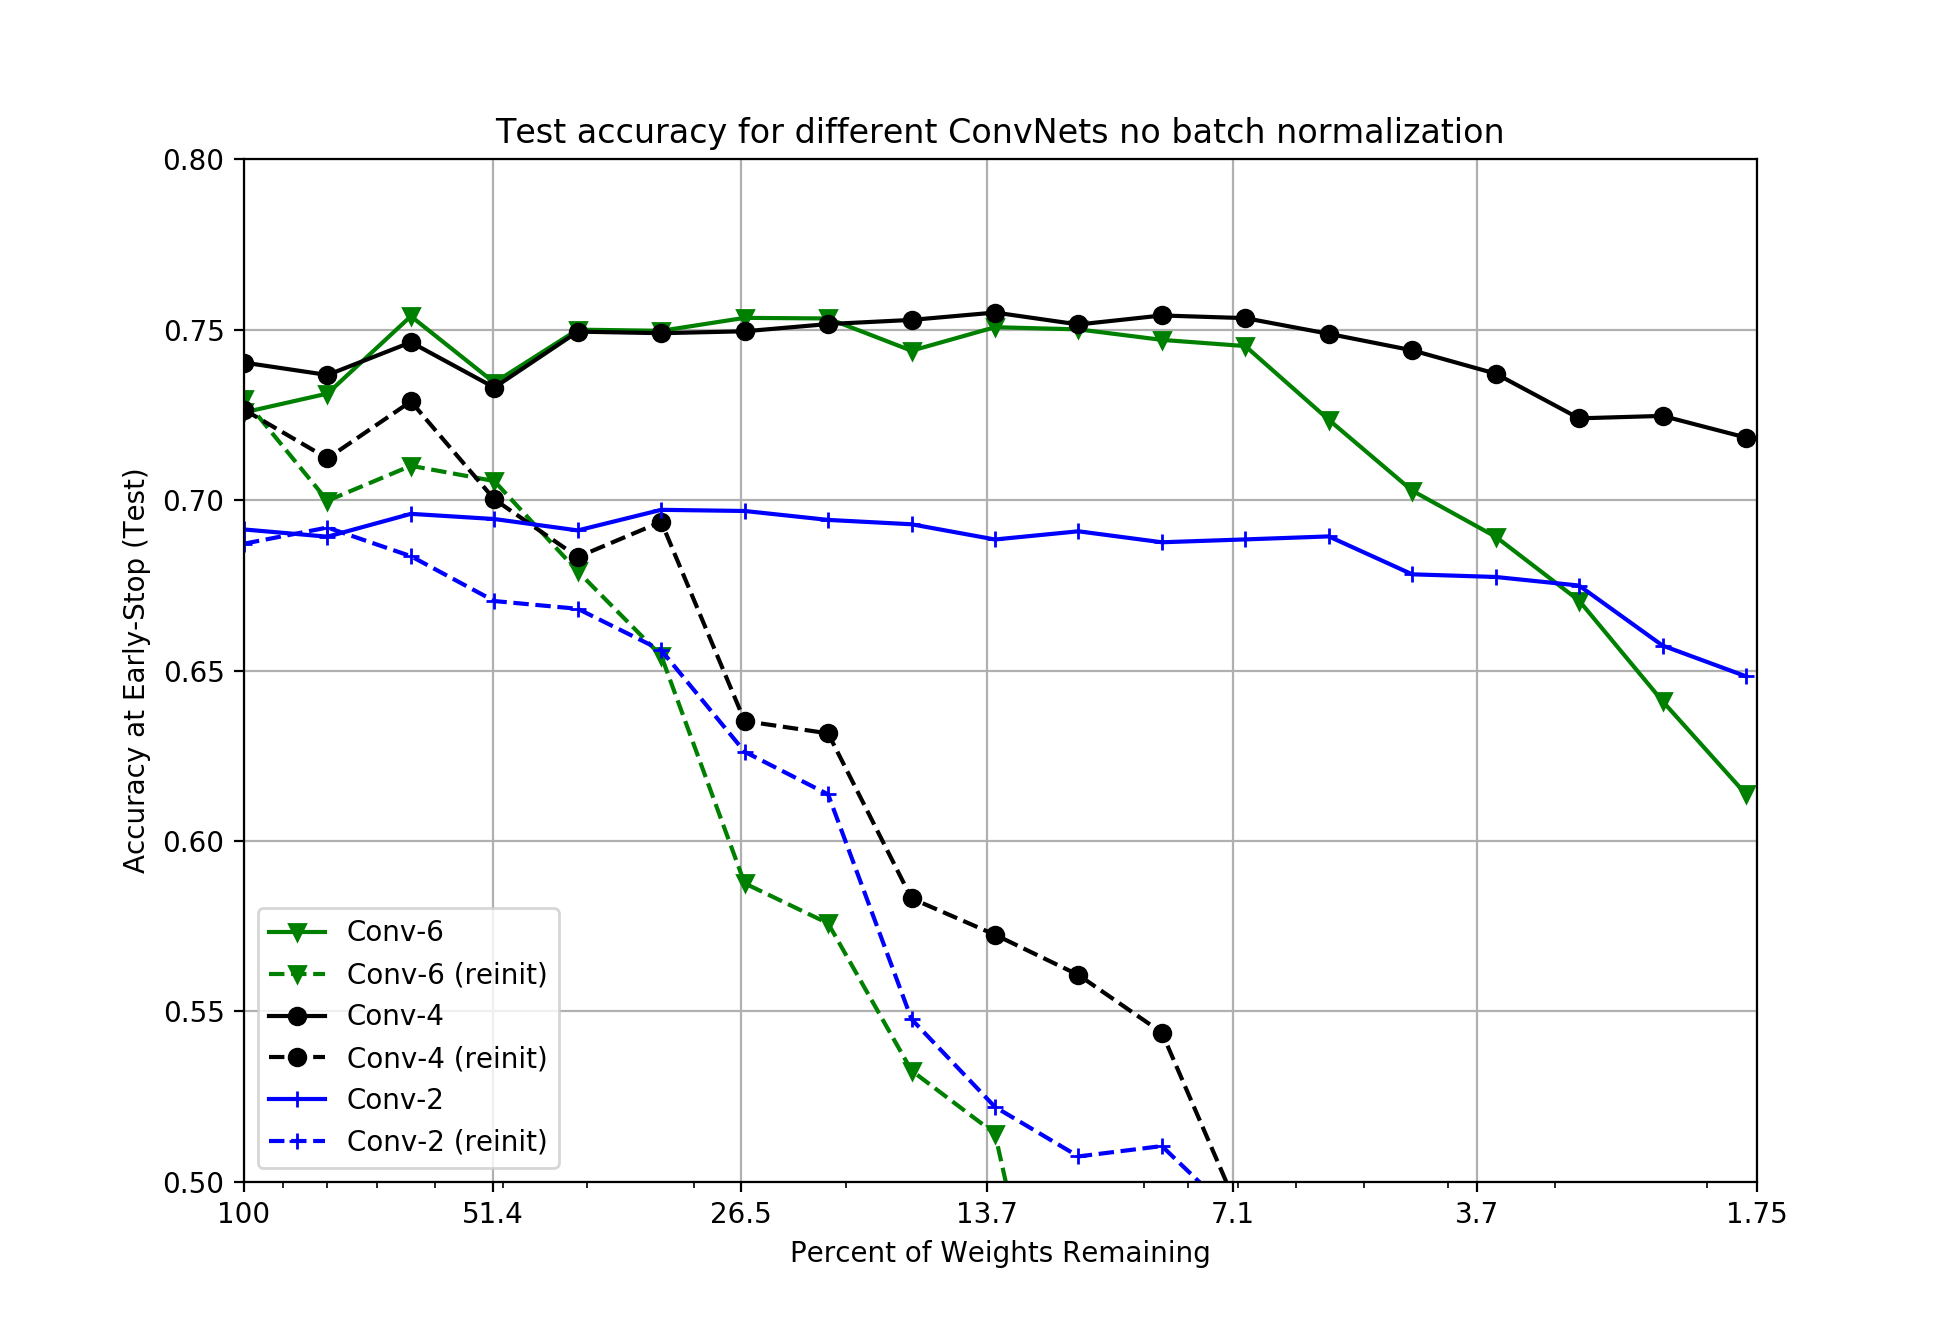
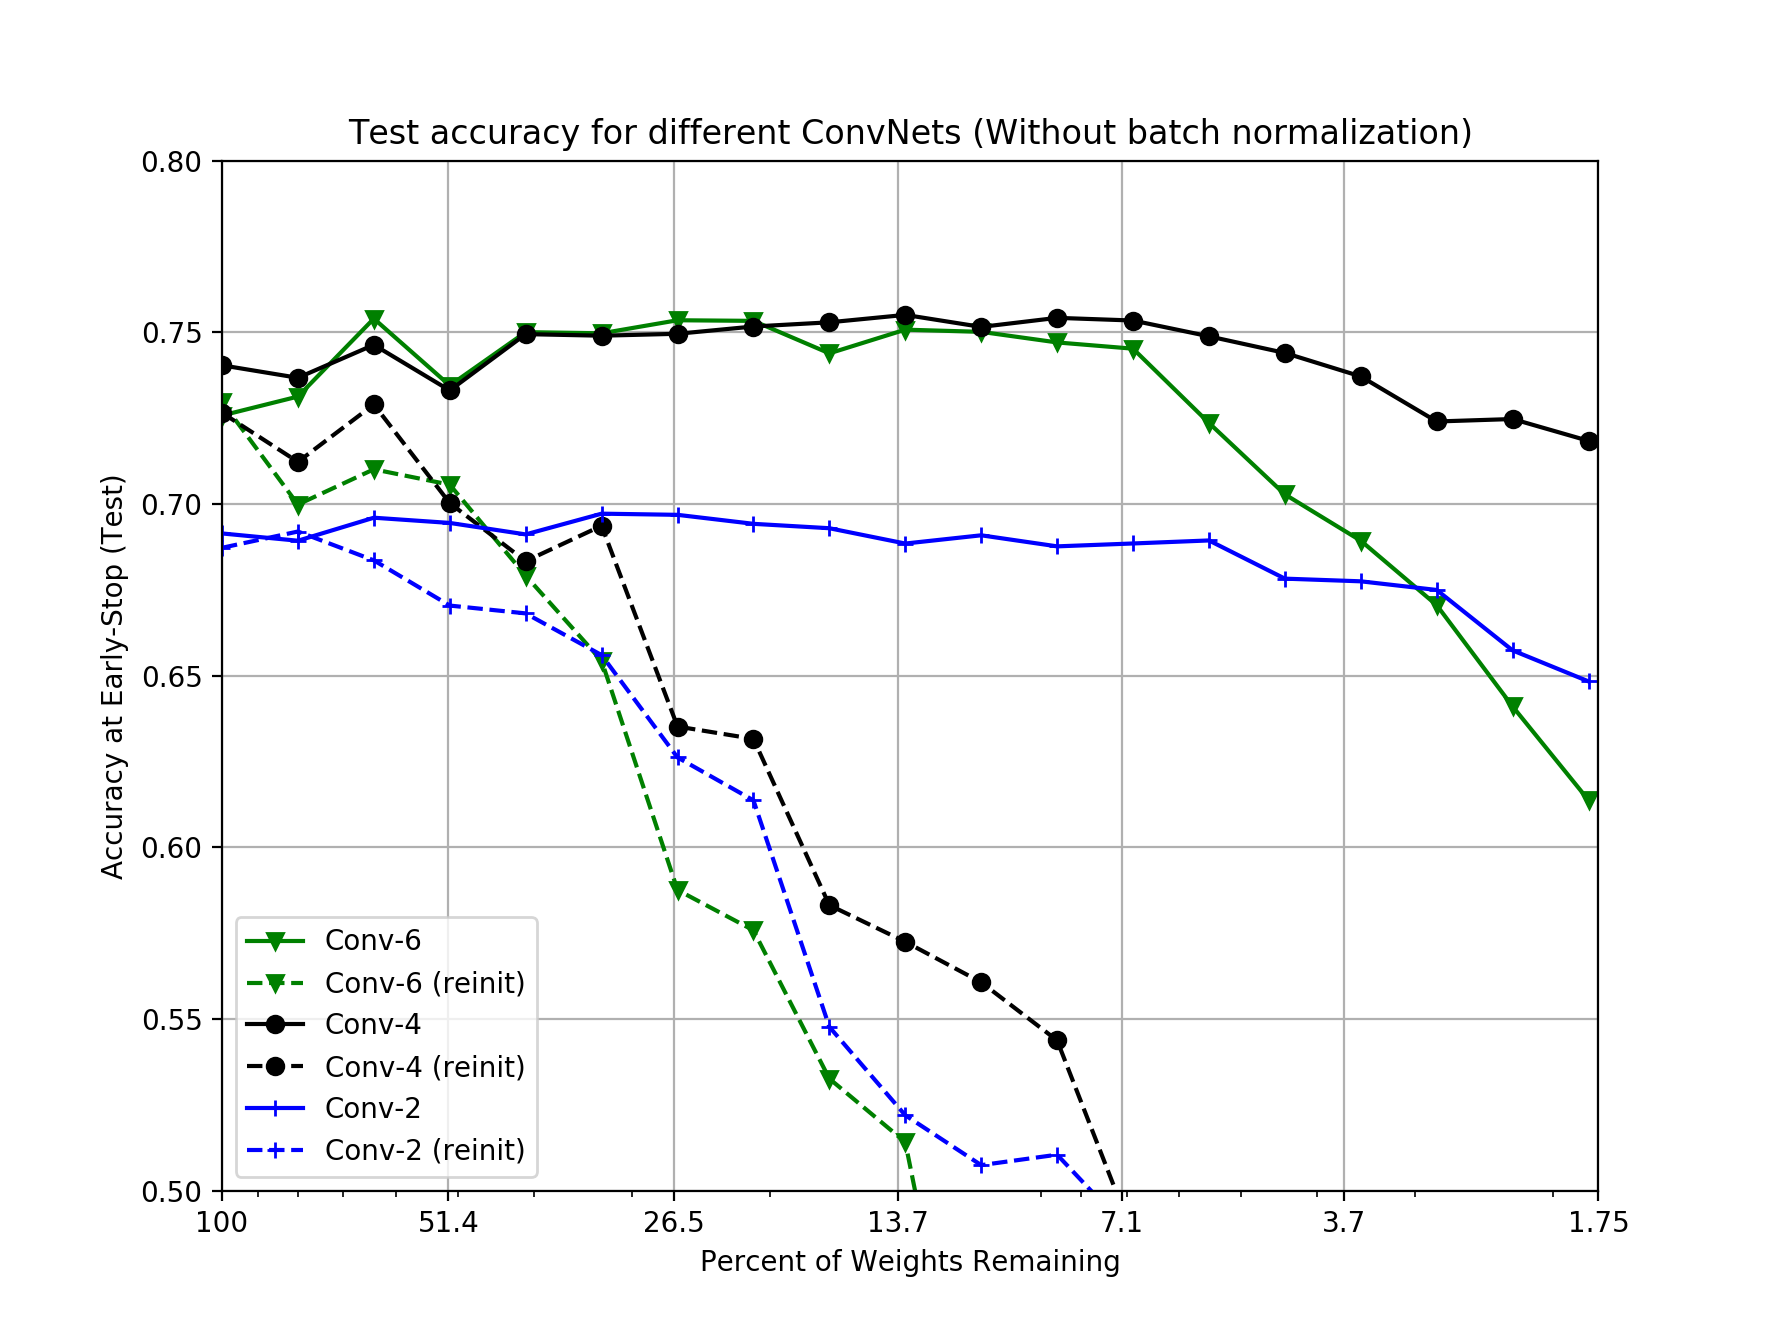
updated figures and plots.py

diff --git a/src/conv_cifar/plots.py b/src/conv_cifar/plots.py
@@ -51,7 +51,7 @@ def plot_no_batch_norm():
     plt.plot(percentages_list_conv24, conv2_hist_reinit, label="Conv-2 (reinit)", marker='+', color='b', linestyle='--')
     
     plt.legend()
-    plt.title("Test accuracy for different ConvNets no batch normalization")
+    plt.title("Test accuracy for different ConvNets (Without batch normalization)")
     plt.xlabel("Percent of Weights Remaining")
     plt.ylabel("Accuracy at Early-Stop (Test)")
 
@@ -74,7 +74,7 @@ def plot_no_batch_norm():
     plt.plot(percentages_list_conv24, conv2_epochs_reinit, label="Conv-2 (reinit)", marker='+', color='b', linestyle='--')
 
     plt.legend()
-    plt.title("Early-stop epoch for different ConvNets using early-stop criterion")
+    plt.title("Early-stop epoch for different ConvNets using early-stop criterion (Without batch normalization)")
     plt.xlabel("Percent of Weights Remaining")
     plt.ylabel("Early-Stop Epoch (Val.)")
 
